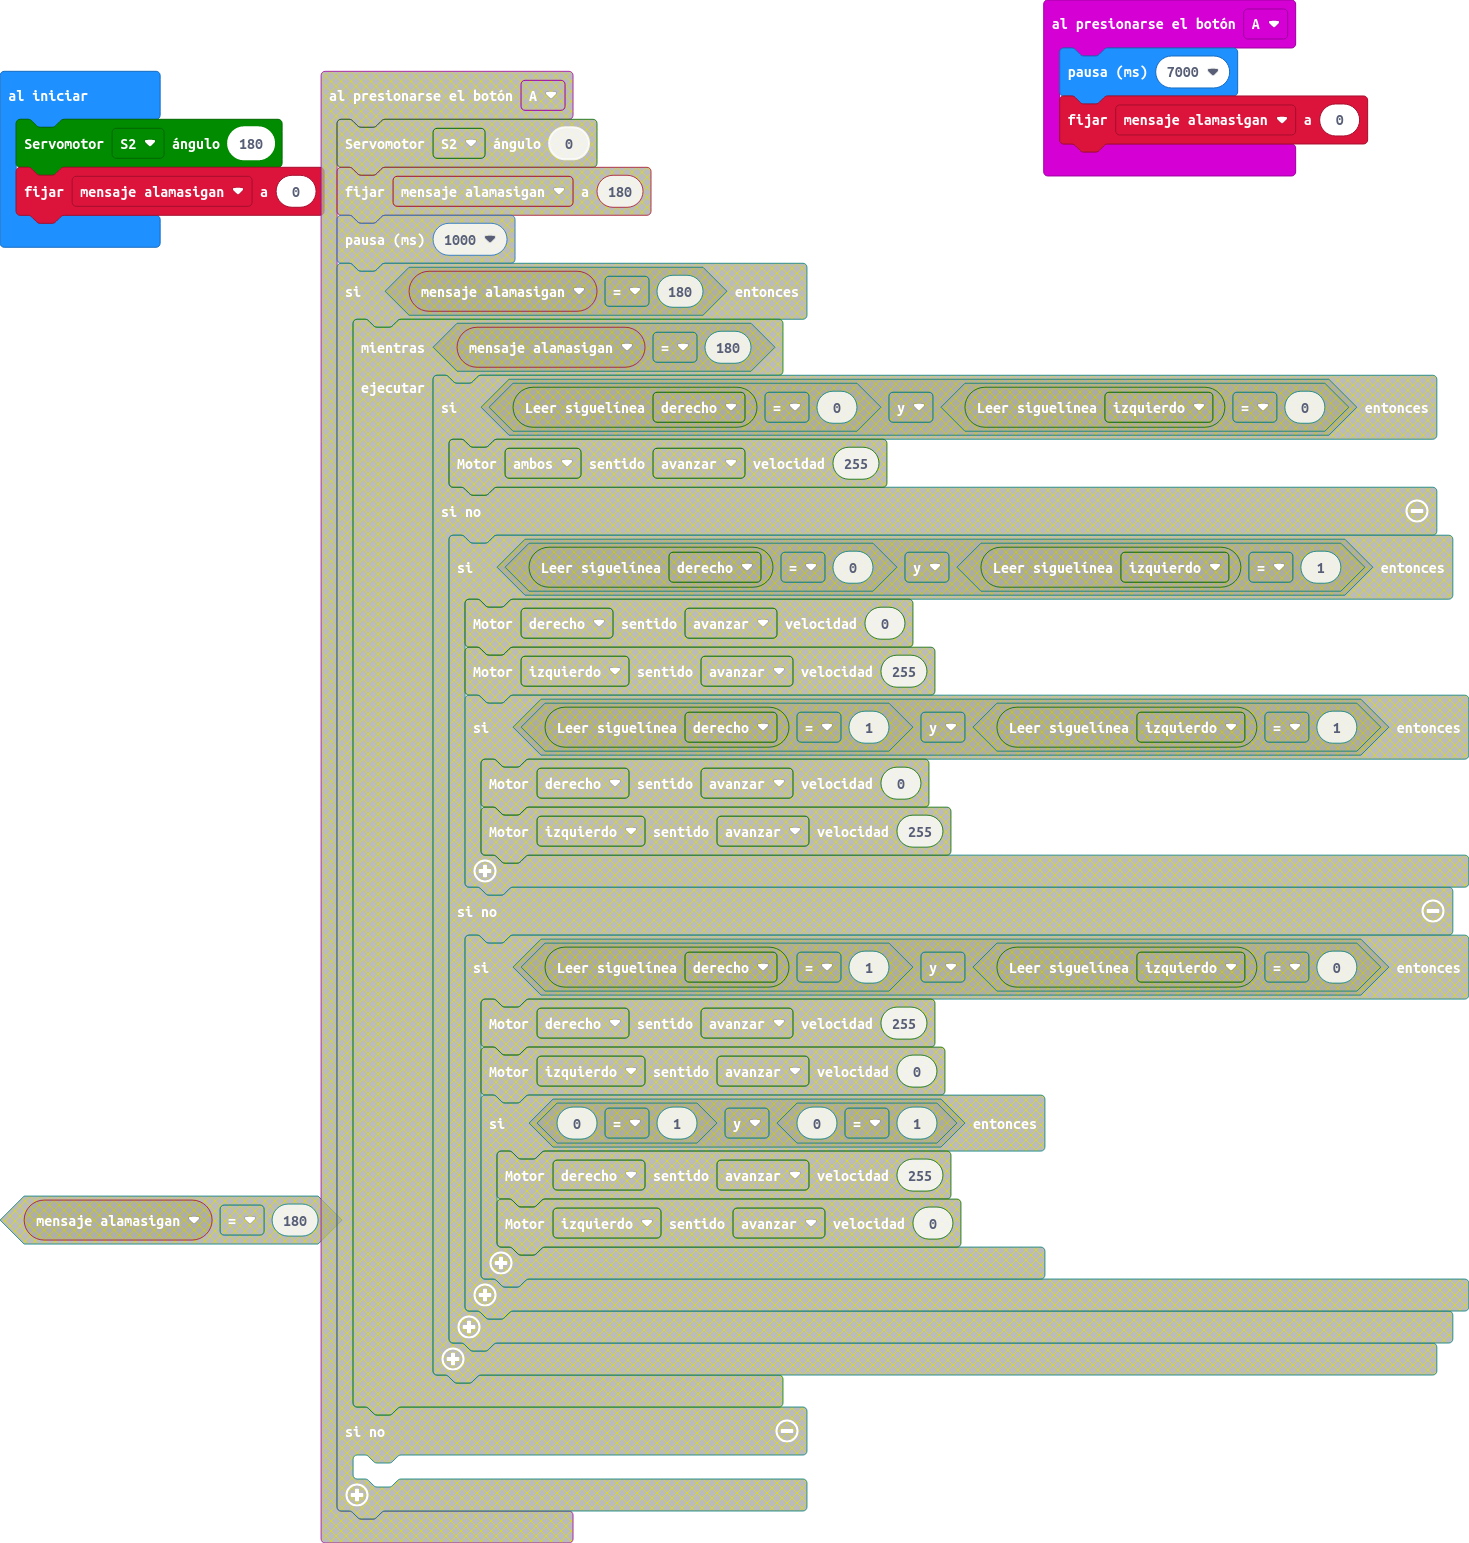
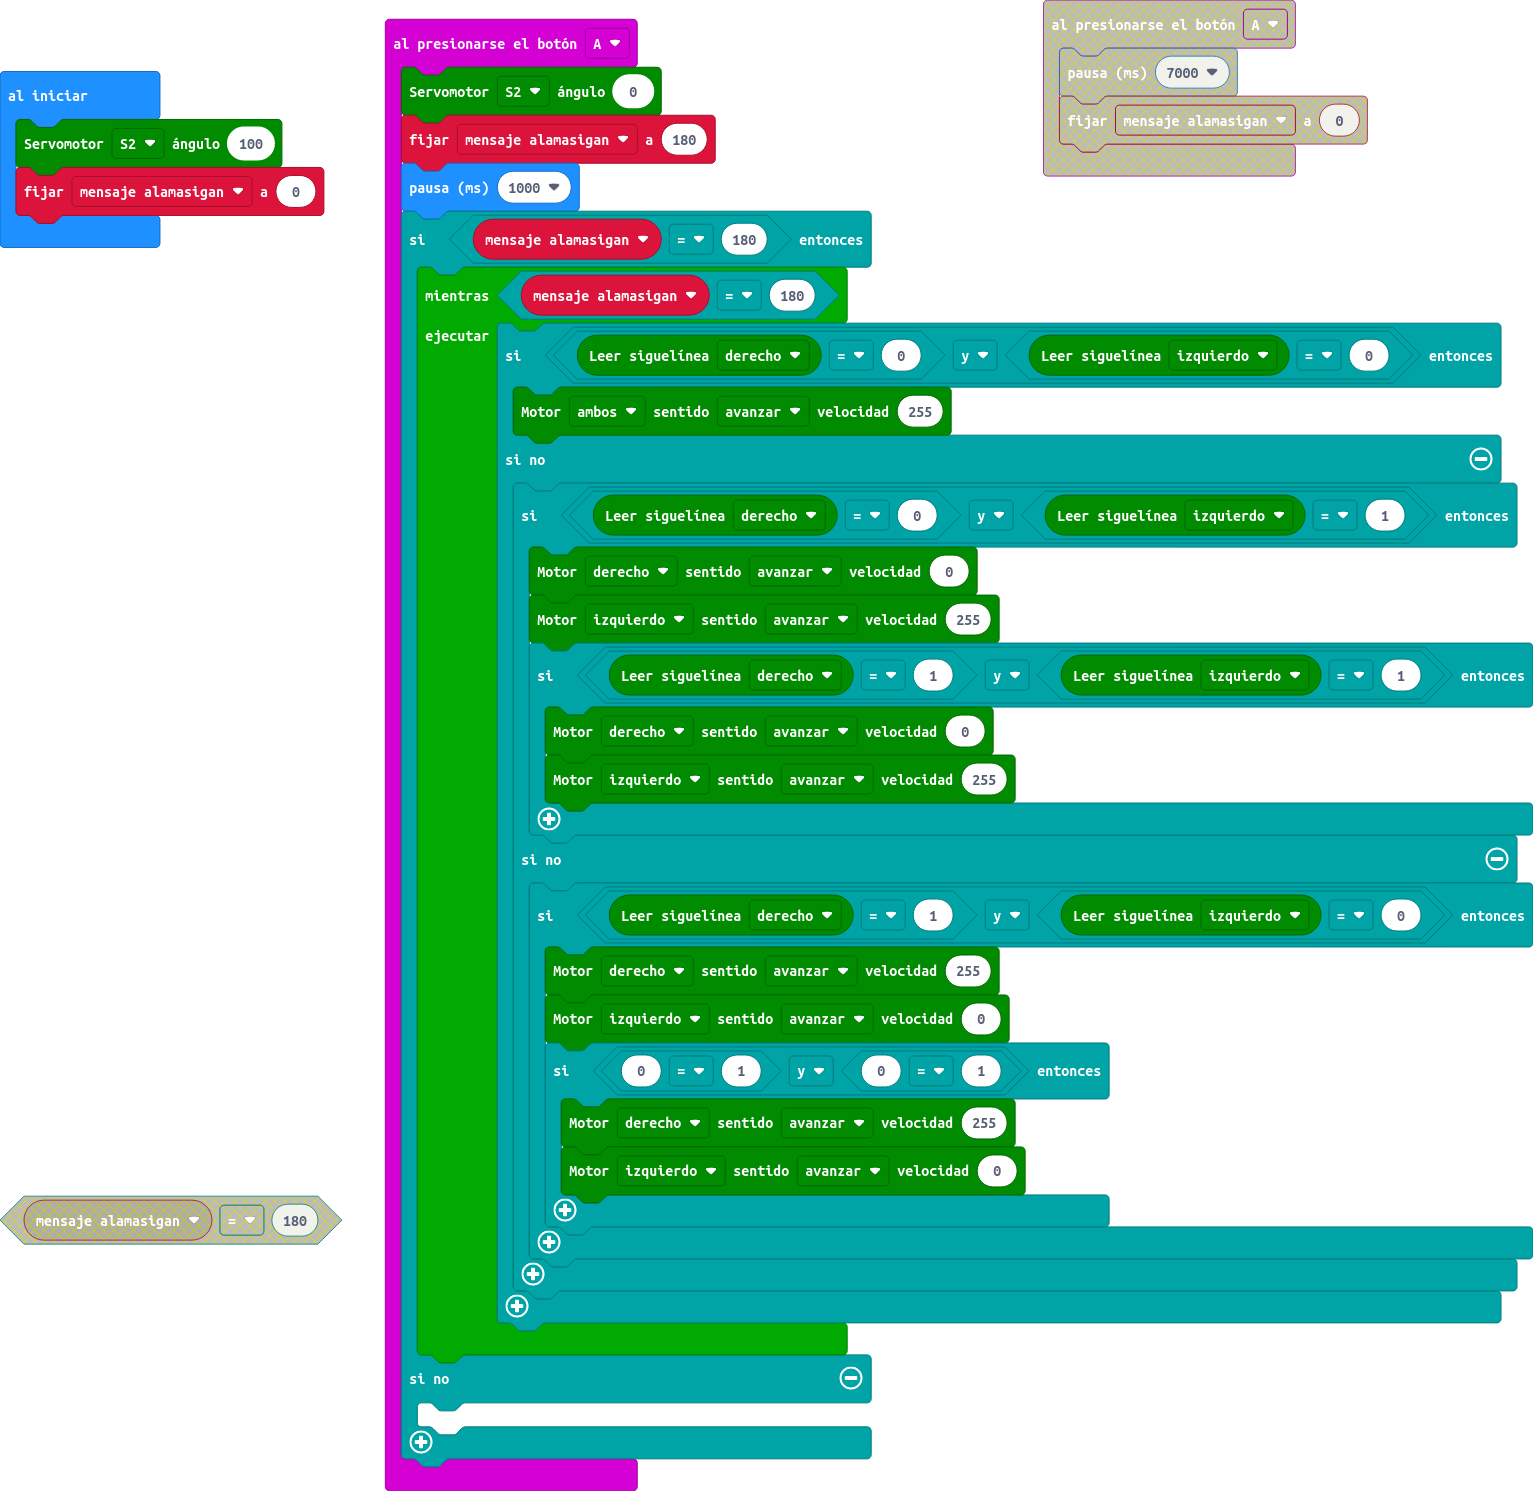
Actualizar main.blocks, main.ts

diff --git a/main.ts b/main.ts
@@ -1,7 +1,35 @@
 input.onButtonPressed(Button.A, function () {
-    basic.pause(7000)
-    mensaje_alamasigan = 0
+    maqueen.servoRun(maqueen.Servos.S2, 0)
+    mensaje_alamasigan = 180
+    basic.pause(1000)
+    if (mensaje_alamasigan == 180) {
+        while (mensaje_alamasigan == 180) {
+            if (maqueen.readPatrol(maqueen.Patrol.PatrolRight) == 0 && maqueen.readPatrol(maqueen.Patrol.PatrolLeft) == 0) {
+                maqueen.motorRun(maqueen.Motors.All, maqueen.Dir.CW, 255)
+            } else {
+                if (maqueen.readPatrol(maqueen.Patrol.PatrolRight) == 0 && maqueen.readPatrol(maqueen.Patrol.PatrolLeft) == 1) {
+                    maqueen.motorRun(maqueen.Motors.M2, maqueen.Dir.CW, 0)
+                    maqueen.motorRun(maqueen.Motors.M1, maqueen.Dir.CW, 255)
+                    if (maqueen.readPatrol(maqueen.Patrol.PatrolRight) == 1 && maqueen.readPatrol(maqueen.Patrol.PatrolLeft) == 1) {
+                        maqueen.motorRun(maqueen.Motors.M2, maqueen.Dir.CW, 0)
+                        maqueen.motorRun(maqueen.Motors.M1, maqueen.Dir.CW, 255)
+                    }
+                } else {
+                    if (maqueen.readPatrol(maqueen.Patrol.PatrolRight) == 1 && maqueen.readPatrol(maqueen.Patrol.PatrolLeft) == 0) {
+                        maqueen.motorRun(maqueen.Motors.M2, maqueen.Dir.CW, 255)
+                        maqueen.motorRun(maqueen.Motors.M1, maqueen.Dir.CW, 0)
+                        if ((0 as any) == (1 as any) && (0 as any) == (1 as any)) {
+                            maqueen.motorRun(maqueen.Motors.M2, maqueen.Dir.CW, 255)
+                            maqueen.motorRun(maqueen.Motors.M1, maqueen.Dir.CW, 0)
+                        }
+                    }
+                }
+            }
+        }
+    } else {
+    	
+    }
 })
 let mensaje_alamasigan = 0
-maqueen.servoRun(maqueen.Servos.S2, 180)
+maqueen.servoRun(maqueen.Servos.S2, 100)
 mensaje_alamasigan = 0
